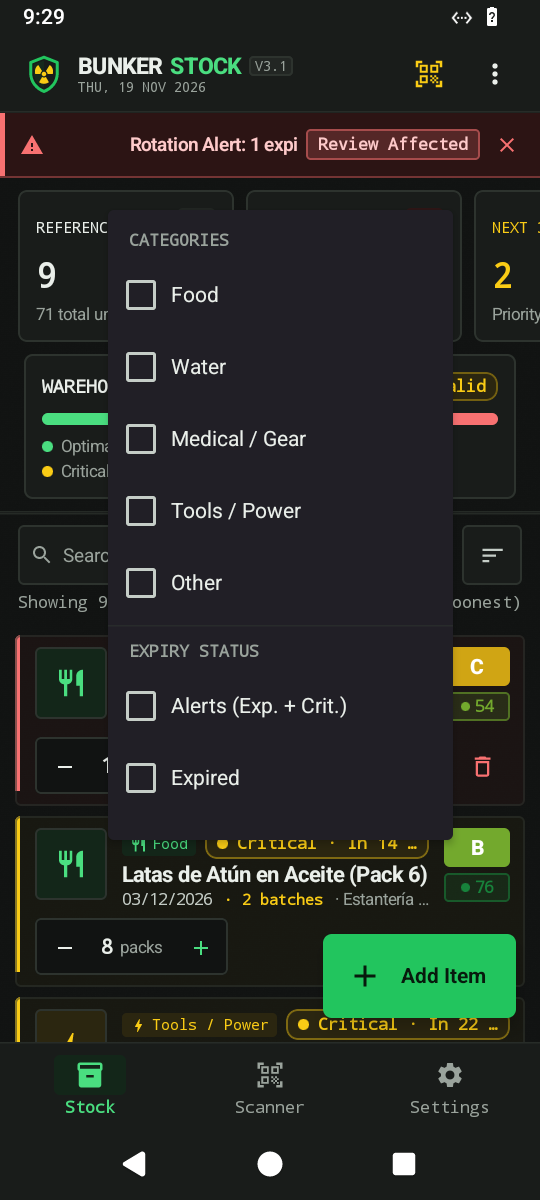
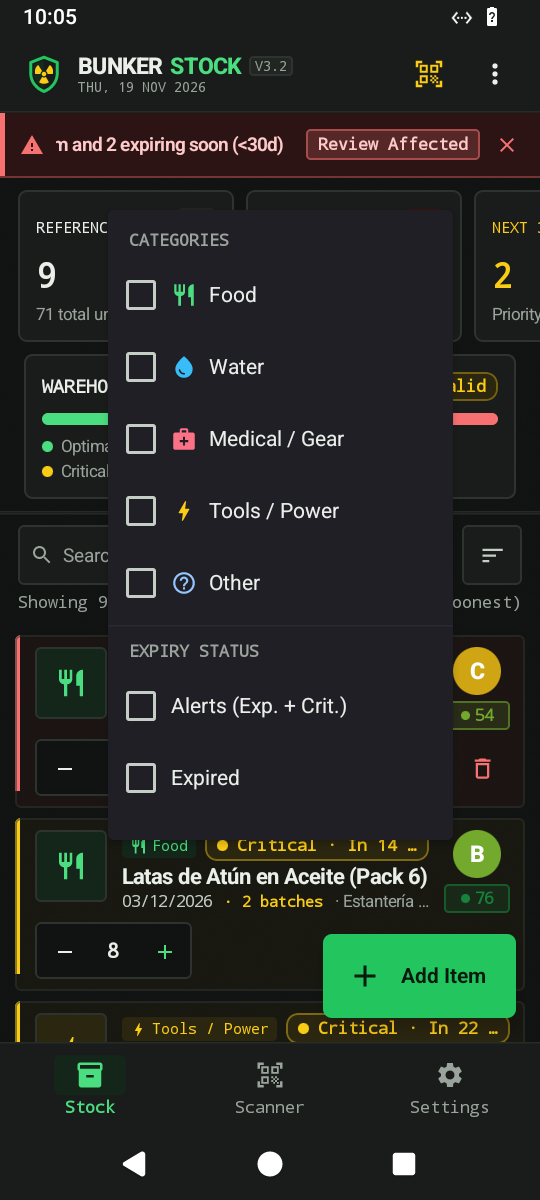
docs: update English README & live screenshots for v3.2

diff --git a/README.md b/README.md
@@ -29,17 +29,19 @@
 - **Compact Single-Row Search & Multi-Filter**: Unified `40 dp` toolbar with instant search, a **checkbox dropdown filter** (multi-select categories + expiry statuses), and sorting.
 - **Compact Inventory Rows**: Product photo thumbnail (auto-resolved from Open Food Facts / web or custom local image), quick `- / +` stock steppers, batch indicator, and stacked **Nutri-Score + Yuka health score** column on the right.
 
-### Animated Product Detail & Multi-Batch Expiry Calendar
-- Tap any product card to open an animated full detail view featuring:
-  - **Hero Product Photo** with quick edit & close controls.
-  - **Nutri-Score (A–E)** beside a **BioShock-inspired semicircular Yuka health gauge** with a custom vector carrot icon and `0–100` score.
-  - **Quick inline controls**: Category icon dropdown (including **Other `?`**), quantity stepper, unit dropdown, and *"No expiration date"* toggle.
-  - **Multiple Batches (*Tandadas*)**: Track separate purchases of the same product with different expiration dates and quantities; select which batch(es) to plot on the calendar.
+### Full-Screen Product Detail & Multi-Batch Expiry Calendar
+- Tap any product card to smoothly **zoom upward from the product icon** into a dedicated full-screen page featuring:
+  - **Zoomable HD Hero Photo** (with loading spinner over the generic icon while fetching, tap to open a full-screen pinch-to-zoom viewer, and an *"Added by <user>"* badge on family-synced items).
+  - **YsiFoods-style Circular Nutri-Score (A–E)** beside an **animated BioShock-inspired semicircular Yuka health gauge** with a custom vector carrot icon that smoothly fills from `0` to the score.
+  - **Concrete Nutrition Facts (*Per 100 g*)**: 8-metric grid (Calories, Protein, Carbs, Sugars, Fat, Saturates, Fibre, Salt) plus an expandable animated `0–100 g` bar chart (auto-enriched via Open Food Facts when missing).
+  - **Quick Inline Controls**: Category icon dropdown (including **Other `?`**), quantity stepper, and *"No expiration date"* toggle.
+  - **Multiple Numbered Batches (`1. 03/12/2026`, `2. 22/02/2027`)**: Track separate purchases of the same product with different expiration dates and quantities; pick which batch(es) appear on the calendar.
   - **Interactive Expiry Calendar**: Visual approach trajectory shading the days between **Today** and your batch expiration date(s) — tap any day to update the active batch's date directly.
   - **Integrated QR Label, Placement & Notes**: Print or share PNG labels and edit bunker location/notes inline.
 
-### Zero-Scroll Optical & QR Scanner
+### Zero-Scroll Optical Scanner & Shopping Mode (`🛒`)
 - **Bundled Offline ML Kit Barcode Scanner** (CameraX + Google ML Kit): Supports `QR`, `EAN-13`, `EAN-8`, `UPC-A`, `UPC-E`, `Code-128`, `Code-39`, and `GS1-128` `(17)YYMMDD` / `(10)LOT` extraction.
+- **Shopping / Rapid Intake Mode**: Toggle `Shopping Mode` right in the viewfinder to scan an entire grocery haul back-to-back — existing items auto-increment `+1`, new barcodes auto-register & enrich via Open Food Facts in the background, and a live bottom haul tray lets you adjust quantities, jump into expiry details, undo, or tap *Finish haul*.
 - **Fixed-Position Viewfinder Controls**: Scan QR from gallery image, flashlight toggle (anchored in place so switching cameras never shifts buttons), and front/back camera switcher.
 - **Non-Blocking Detection Popup**: Camera stays live while showing Open Food Facts lookup, automatic shelf-life estimation, and nutritional scoring.
 
@@ -47,14 +49,16 @@
 - Pick any subset (or all) of your inventory and export a print-ready **A4 PDF** (`24 scannable ~30 mm QR labels per sheet` with dashed cut guides, auto-spilling onto additional pages when exceeded).
 - Auto-generates persistent `BNK-XXXXXX` codes for unlabeled items and supports both **Save PDF** (SAF) and **Share / Print PDF**.
 
-### Zero-Account Family Group Sync (E2E Encrypted)
+### Zero-Account Family Group Sync (E2E Encrypted + Diff Polling)
 - Create a family group in one tap and invite family members via **QR code or shareable `bunkerstock://join?...` link** — **no accounts, logins, or API keys required**.
+- **Diff-Aware Auto-Sync**: Always checks for group diffs when opening or resuming the app, plus a configurable & toggleable foreground diff-polling interval (default every `15 s`) that skips redundant uploads/writes when nothing changed.
+- **Per-Device Display Name**: Edit your username anytime inside Settings → Family Group so synced items display who added them.
 - Snapshots are **GZIP-compressed and encrypted client-side with AES-256-GCM** using a secret key that stays inside the invite QR/link and never touches the relay in plaintext.
-- Personal local photos stay on-device; remote devices automatically resolve standard product thumbnails on their own.
+- Personal local photos stay on-device; remote devices automatically resolve standard HD product thumbnails on their own.
 - Includes an optional self-hostable Cloudflare Worker in [`sync-worker/worker.js`](sync-worker/worker.js).
 
 ### Native Expiry Notifications, Custom Thresholds & Localization
-- **Customizable Day Thresholds** in Settings for *Expired margin*, *Critical*, and *Caution*, dynamically updating KPIs, health bar, filters, and alerts.
+- **Direct Numeric Threshold Inputs + Reset (`0 / 30 / 90`)** in Settings for *Expired*, *Critical*, and *Caution*, dynamically updating KPIs, health bar, filters, and alerts.
 - **Native Android Background Notifications** via WorkManager when confirmed items enter the dangerous expiry range.
 - **First-Time Language Selector**: Clean **Español / English** choice on first launch (switchable anytime in Settings), plus **Dark / Light / System** themes.
 - **Data Portability & Auto-Updates**: JSON backup export/import, Excel-ready UTF-8 CSV export, and read-only GitHub Releases update checker.
@@ -63,7 +67,7 @@
 
 ## Download & Install
 
-Grab the latest signed release APK from **[GitHub Releases](https://github.com/Emefedez/bunker-stock-android/releases/latest)** (`BunkerStock-v3.1.apk`). All releases are signed with a persistent keystore so new versions install seamlessly in-place.
+Grab the latest signed release APK from **[GitHub Releases](https://github.com/Emefedez/bunker-stock-android/releases/latest)** (`BunkerStock-v3.2.apk`). All releases are signed with a persistent keystore so new versions install seamlessly in-place.
 
 ## Build & Test
 
